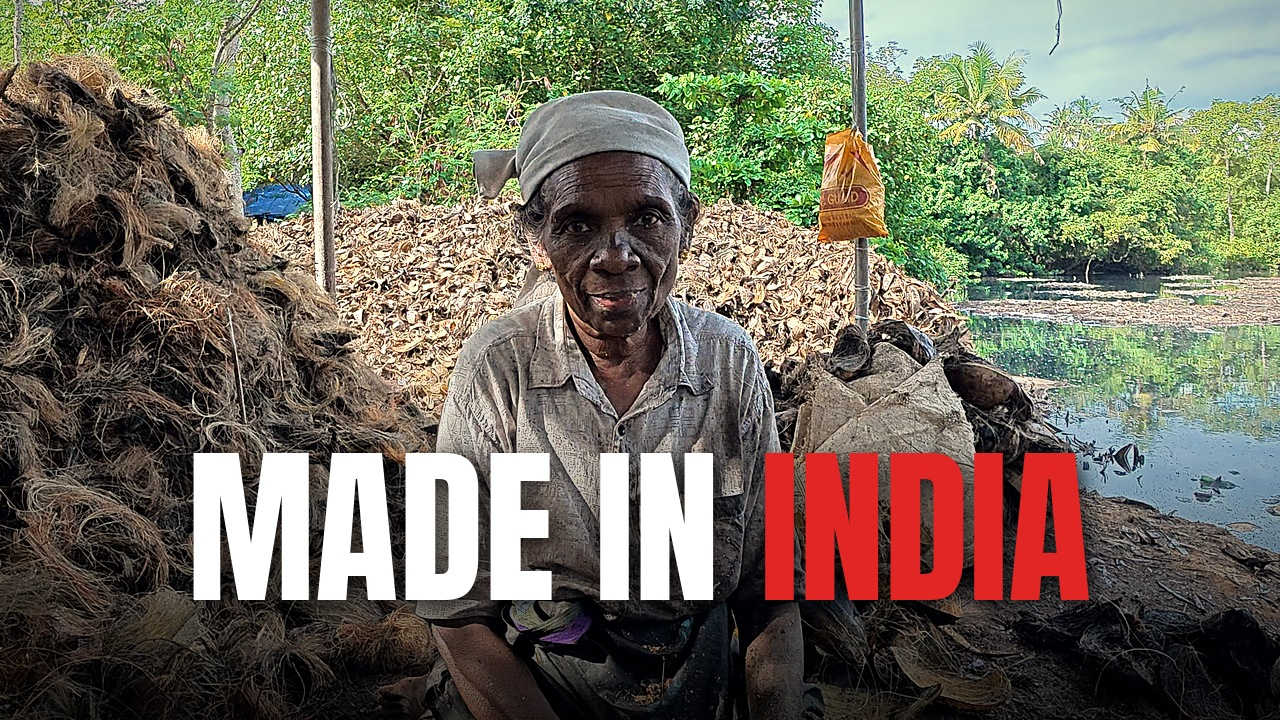
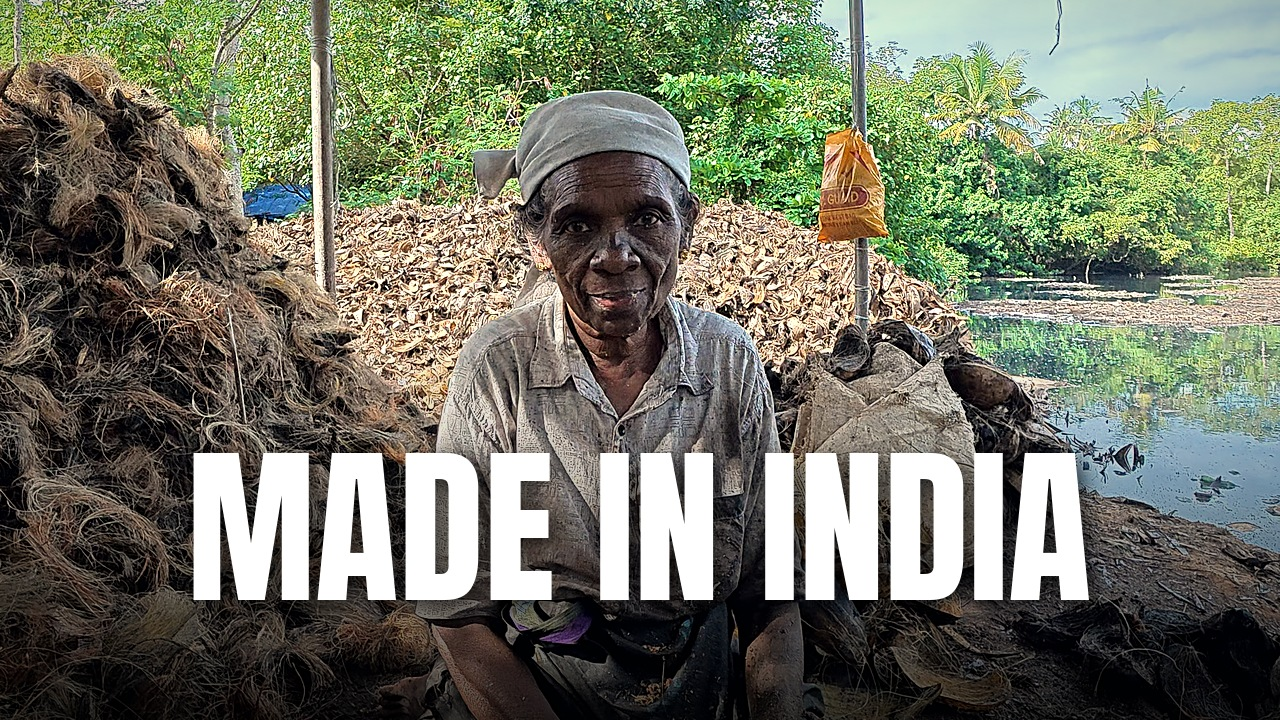
Copy: coir, miniature con scritta tutta bianca, signora centrata, signore più in alto (Manuel 11/11)
Claude-Session: https://claude.ai/code/session_01HtfbgxkwhMbMCwGetFjun7

Changed region(s): [[0.5938, 0.6111, 0.875, 0.8556]]

diff --git a/copioni/miniature_v3/miniature_v3.py b/copioni/miniature_v3/miniature_v3.py
@@ -186,7 +186,7 @@ J = {
      it=('CHI FA', 'I NOSTRI TAPPETI'), en=('WHO MAKES', 'OUR DOORMATS')),
  # COIR v4 (Manuel 11/11): espressioni serie, testo coerente con i primi secondi del lungo
  # (0:00 l'uomo nella laguna "Così viene raccolta la materia prima..."; VO0 "...non c'è scritto chi li ha fatti, né quanto le hanno pagate")
- ('coir', 'C6_laguna'): dict(src=g(C, '0052'), t=3.45, cx=.50, cy=.56, zoom=1.35, layout='riga', red=['NASCONO', 'QUI', 'START', 'HERE'],
+ ('coir', 'C6_laguna'): dict(src=g(C, '0052'), t=3.45, cx=.50, cy=.63, zoom=1.35, layout='riga',
      it='I NOSTRI TAPPETI NASCONO QUI', en='OUR DOORMATS START HERE'),
  ('coir', 'C7_donne'): dict(src=g(C, '0540'), t=13.5, cx=.5, cy=.5, zoom=1.0, layout='basso', red=True, flip=True,
      it=('A MANO, SEDUTE A TERRA', 'QUANTO LE PAGANO?'), en=('BY HAND, ON THE GROUND', 'HOW MUCH ARE THEY PAID?')),
@@ -205,9 +205,9 @@ J = {
  ('coir', 'C7f_lavoro'): dict(src=g(C, '0540'), t=20.0, cx=.5, cy=.5, zoom=1.0, layout='basso', red=True, flip=True,
      it=('A MANO, SEDUTE A TERRA', 'QUANTO LE PAGANO?'), en=('BY HAND, ON THE GROUND', 'HOW MUCH ARE THEY PAID?')),
  # scelta di Manuel 11/11: le due inquadrature della signora piccolina che guarda in camera, una riga sola
- ('coir', 'C9_madeinindia'): dict(src=g(C, '0063'), t=9.2, cx=.535, cy=.52, zoom=1.45, layout='riga', red=['INDIA'],
+ ('coir', 'C9_madeinindia'): dict(src=g(C, '0063'), t=9.2, cx=.535, cy=.52, zoom=1.45, layout='riga',
      it='MADE IN INDIA', en='MADE IN INDIA'),
- ('coir', 'C10_80centesimi'): dict(src=g(C, '0063'), t=15.5, cx=.45, cy=.45, zoom=1.35, layout='riga', red=['80', 'CENTESIMI', 'CENTS'],
+ ('coir', 'C10_80centesimi'): dict(src=g(C, '0063'), t=15.5, cx=.52, cy=.45, zoom=1.35, layout='riga',
      it='80 CENTESIMI A TAPPETO', en='80 CENTS PER RUG'),
 }
 if __name__ == '__main__':
